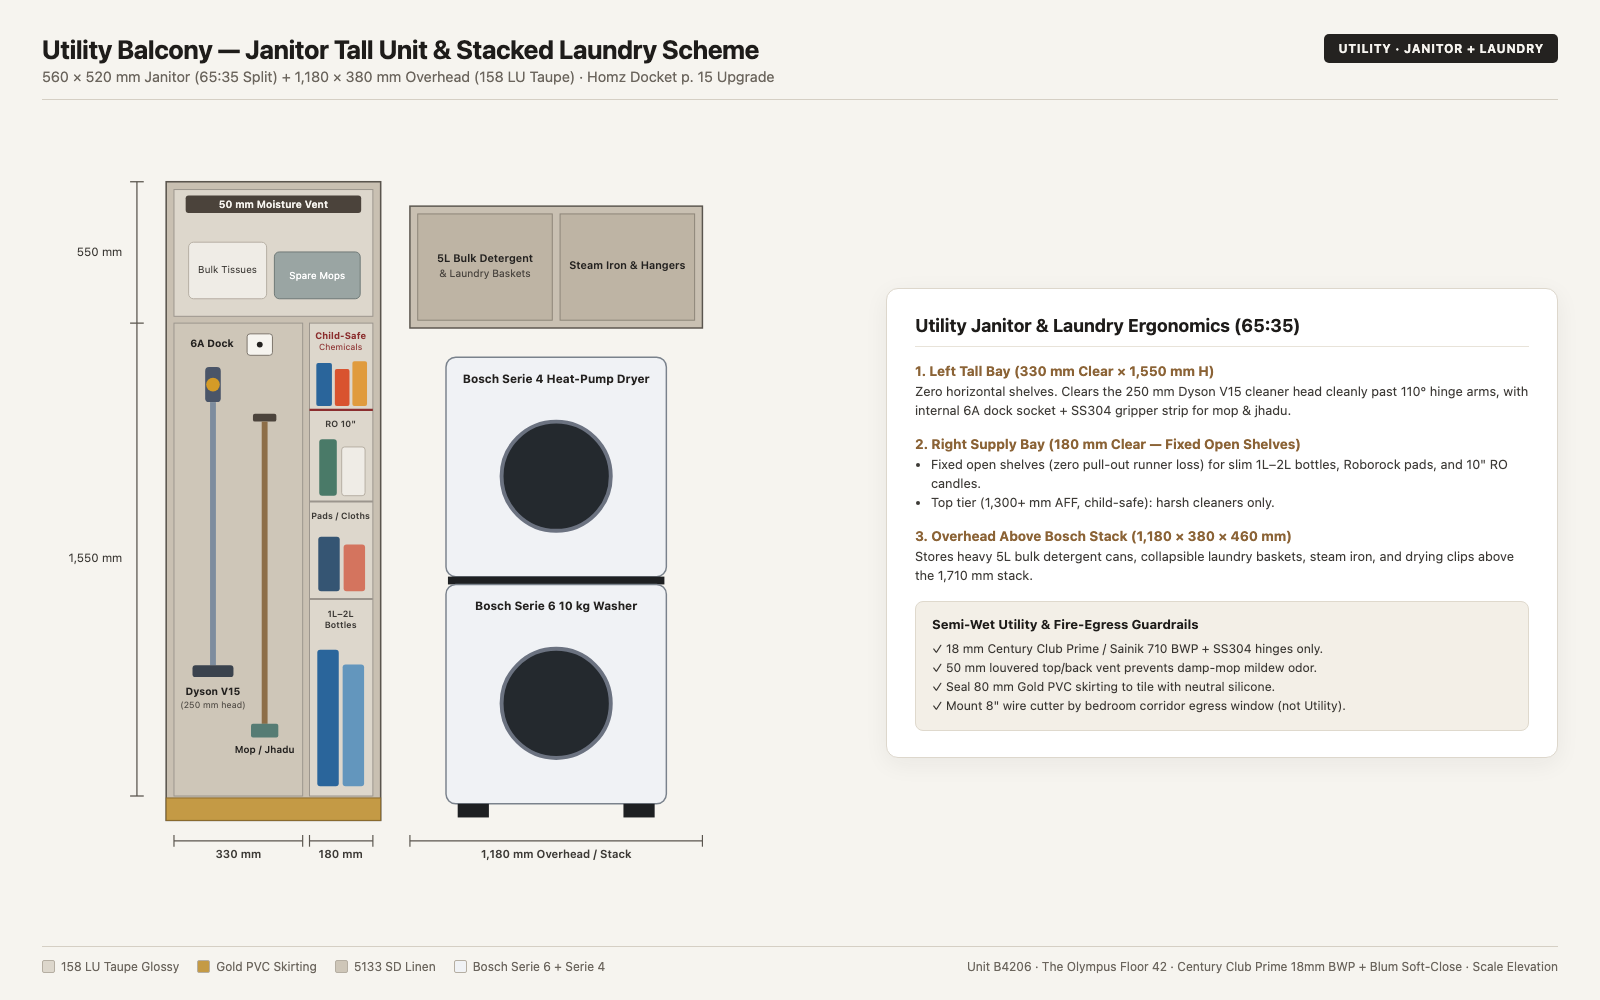
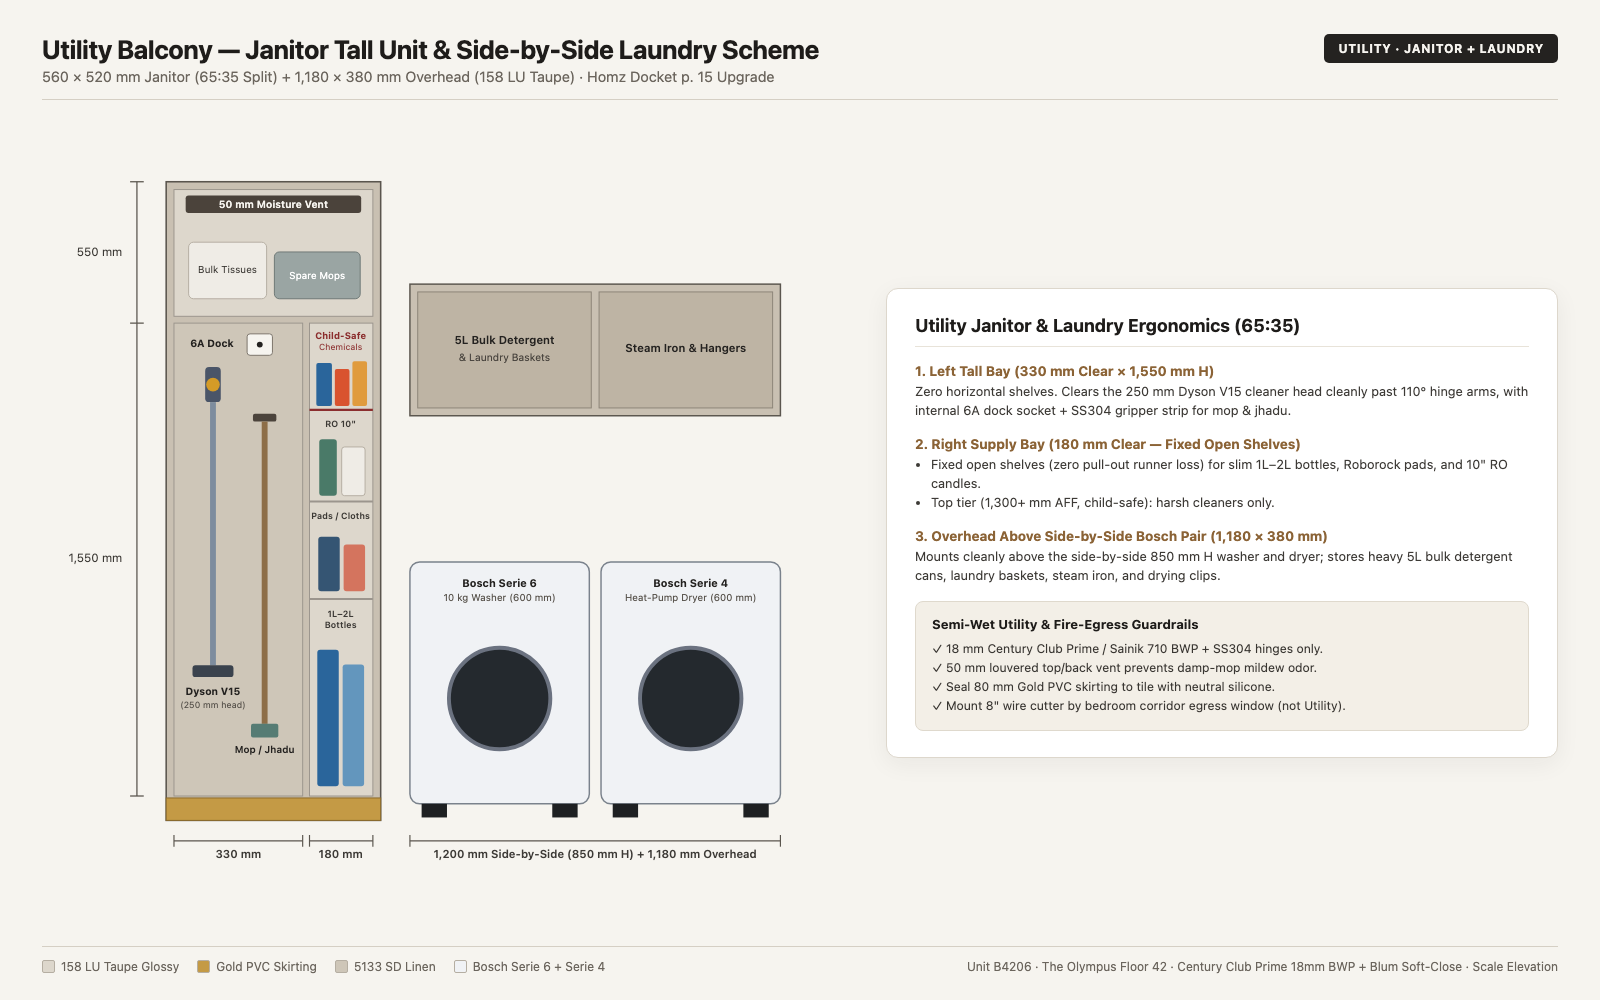
sync: update Project U notes (2026-11-22 00:23:58)

diff --git a/quartz/static/visualizer/b4206-model.html b/quartz/static/visualizer/b4206-model.html
@@ -1895,31 +1895,30 @@ addBox(decorGroup, 0.06, 0.065, 0.24, 14.35, 2.24, 8.64, MAT.steel, {
   meta: 'Tier 2 Recommended · ₹7,500–₹9,500 (Tier 1: Häfele DCL 110 ₹4.5k)'
 });
 
-// Utility + Service Balcony (Docket p. 15 + Locked Stacked Bosch Laundry)
+// Utility + Service Balcony (Docket p. 15 + Side-by-Side Bosch Laundry)
 addBox(furnGroup, 0.56, 1.64, 0.52, 15.05, 0.90, 9.65, MAT.taupeGloss, {
-  tag: 'UTILITY · DOCKET P. 15', title: 'Utility Tall Storage & Overhead (158 LU) + Stacked Bosch Laundry',
-  desc: 'Tall storage cabinet with Gold PVC skirting + wall overhead cabinet beside Kitchen door + stacked Bosch Serie 6 10kg washer & Serie 4 10kg heat-pump dryer via WTZ27400 kit + black granite service sink.',
+  tag: 'UTILITY · DOCKET P. 15', title: 'Utility Tall Storage & Overhead (158 LU) + Side-by-Side Bosch Laundry',
+  desc: 'Tall storage cabinet with Gold PVC skirting + wall overhead cabinet beside Kitchen door + side-by-side Bosch Serie 6 10kg washer & Serie 4 10kg heat-pump dryer + black granite service sink.',
   meta: 'Utility Width: 1500 mm · White uPVC Enclosure'
 });
 addBox(furnGroup, 0.56, 0.08, 0.52, 15.05, 0.04, 9.65, MAT.goldProfile); // Utility Tall Cabinet Gold PVC skirting
 addBox(furnGroup, 0.02, 0.26, 0.02, 14.76, 1.02, 9.84, MAT.goldProfile); // Utility vertical gold pull
-addBox(furnGroup, 0.38, 0.46, 1.18, 15.14, 2.08, 10.75, MAT.taupeGloss); // Utility 2-door wall overhead cabinet (Docket p. 15, clears 1.71m stack)
-// Utility Stacked Bosch Serie 6 Washer (WGA254ZSIN, 600×850×600) + WTZ27400 Kit + Serie 4 Heat-Pump Dryer (WQG2520XIN, 600×850×600)
+addBox(furnGroup, 0.38, 0.46, 1.18, 15.14, 1.65, 10.53, MAT.taupeGloss); // Utility 2-door wall overhead cabinet above side-by-side laundry
+// Utility Side-by-Side Bosch Serie 6 Washer (WGA254ZSIN, 600×850×600) + Serie 4 Heat-Pump Dryer (WQG2520XIN, 600×850×600)
 const laundryMeta = {
-  tag: 'UTILITY · STACKED BOSCH LAUNDRY (EXACT 600×1710mm)', title: 'Bosch WGA254ZSIN (10kg Washer) + WTZ27400 + WQG2520XIN (10kg Heat-Pump Dryer)',
-  desc: 'Two stacked 600×850×600mm Bosch machines on structural tile with rubber anti-vibration pads, 20-bar SS304 braided inlet hose, inline polyphosphate scale filter on cold inlet, and 2× dedicated 16A radial drops.',
-  meta: 'Decided · ₹44k Washer + ₹64k Dryer + ₹5.5k Stack Kit'
+  tag: 'UTILITY · SIDE-BY-SIDE BOSCH LAUNDRY (1200×850mm)', title: 'Bosch WGA254ZSIN (10kg Washer) + WQG2520XIN (10kg Heat-Pump Dryer) Side-by-Side',
+  desc: 'Two side-by-side 600×850×600mm Bosch machines on structural tile with rubber anti-vibration pads, 20-bar SS304 braided inlet hose, inline polyphosphate scale filter on cold inlet, and 2× dedicated 16A radial drops.',
+  meta: 'Decided · ₹44k Washer + ₹64k Dryer (Side-by-Side)'
 };
-addBox(furnGroup, 0.60, 0.84, 0.60, 15.05, 0.42, 10.40, MAT.offWhite, laundryMeta);
-addBox(furnGroup, 0.61, 0.03, 0.61, 15.05, 0.855, 10.40, MAT.darkMetal, laundryMeta); // WTZ27400 stacking kit seam
-addBox(furnGroup, 0.60, 0.84, 0.60, 15.05, 1.29, 10.40, MAT.offWhite, laundryMeta);
-[0.44, 1.31].forEach(dy => {
+addBox(furnGroup, 0.60, 0.84, 0.60, 15.05, 0.42, 10.22, MAT.offWhite, laundryMeta);
+addBox(furnGroup, 0.60, 0.84, 0.60, 15.05, 0.42, 10.84, MAT.offWhite, laundryMeta);
+[10.22, 10.84].forEach(dz => {
   const drum = new THREE.Mesh(new THREE.CylinderGeometry(0.19, 0.19, 0.04, 20), MAT.darkMetal);
-  drum.rotation.z = Math.PI / 2; drum.position.set(14.74, dy, 10.40); furnGroup.add(drum);
+  drum.rotation.z = Math.PI / 2; drum.position.set(14.74, 0.44, dz); furnGroup.add(drum);
 });
-addBox(furnGroup, 0.55, 0.05, 0.62, 15.05, 0.84, 11.15, MAT.graniteBlack, {
+addBox(furnGroup, 0.55, 0.05, 0.62, 15.05, 0.84, 11.50, MAT.graniteBlack, {
   tag: 'UTILITY · SERVICE SINK & PLUMBING', title: 'Utility Black Granite Service Counter & Deep Scrub Sink',
-  desc: 'Heavy-duty utility scrub sink beside stacked Bosch laundry; P-SHAFT-74 metered feed tested for Zoloto Art. 1040B forged brass PRV if line pressure >4.5 bar.',
+  desc: 'Heavy-duty utility scrub sink beside side-by-side Bosch laundry; P-SHAFT-74 metered feed tested for Zoloto Art. 1040B forged brass PRV if line pressure >4.5 bar.',
   meta: '3–5mm underside capillary drip groove · DZR brass stopcocks'
 });
 addBox(furnGroup, 0.50, 1.45, 0.92, 15.25, 0.72, 6.92, MAT.steel, {

diff --git a/content/kitchen-laundry.md b/content/kitchen-laundry.md
@@ -32,8 +32,8 @@ Top reasons to reject or alter this specification: (1) omitting $\ge 5\text{ mm}
 | **Chimney Extraction (90cm T-Box)** | **[Recommended]** [Faber Coral HC SC FL BK BLDC 90](https://www.amazon.in/dp/B0F4CZ751F) (1,500 m³/h gross suction, inverter BLDC motor, 400mm flat T-box, heat auto-clean, 8.1 D, 8.8 VFM, 8.5 overall, ₹19,490–₹20,500) / [Faber Stilux 3D Plus Max 90](https://faberindia.com/) (1,350 m³/h, SS baffles, 8.3 D, ₹22,500) | [Bosch DWB97LM50I Box Hood 90cm](https://www.bosch-home.in/product/DWB97LM50I) (IEC 61591 730 m³/h boost [~1,450 m³/h gross eq.], EcoSilence BLDC, multilayer SS cassette, 9.3 D, 3.1 VFM at $3.3\times$, 7.9 overall, ₹65,000–₹66,000) | Floor 42 drafts and 670mm domino hobs demand $\ge 1,400\text{ m}^3/\text{h}$ gross capture. Disqualify curved glass (`Faber Primus Plus`) and `Siemens LC97BIP50I` (~₹78k, $3.9\times$, fails $\text{VFM}_2 \ge 3.0$). Run thermal auto-clean every 14 days; route 150mm rigid PVC pipe ($\le 2$ bends) to shaft. |
 | **Drinking Water Purifier (decided)** | **[Recommended]** [LG PuriCare WW184ETB](https://www.amazon.in/dp/B0FC2HKT2C) (8L sealed SS304 tank, RO+UV+UF, EverFresh 6-hr in-tank UV-C LED, manual 3s reset, 8.6 D, 9.0 VFM, 8.8 overall, ₹28,990 LG/Reliance quote / ₹34,000 Amazon) | [3M High-Flow Commercial RO System with SS304 Reservoir](https://www.3mindia.in/) (9.0 D, 4.2 VFM at $2.93\times$, 7.7 overall, ~₹85,000) | Sealed SS304 tank with 6-hr UV-C LED prevents biofilm (`r/WaterTreatment`). Disqualify butyl bladder tanks (`Kent Sterling+`) and TDS bypass valves. Connects to builder splashback bibcock + 6A socket behind external 10" pre-filter and 2.8 bar PRV. |
 | **Primary Refrigerator (decided)** | **[Recommended]** [Bosch Serie 6 XXL 641L Top Freezer (KDN86AID0I)](https://www.bosch-home.in/product/KDN86AID0I) (493L fresh + 148L freezer [77:23], VarioInverter, 860mm W fits 980mm niche, 8.8 D, 9.0 VFM, 8.8 overall, ₹94,000–₹1.08L) / [Hitachi Big French (R-WB640VND0)](https://www.hitachiaircon.com/in/ranges/refrigerators) (569L, 8.5 D, ₹1.18L) | [Mitsubishi Electric 635L Multi-Drawer (MR-WX70C / MR-LA70E)](https://www.mitsubishielectric.in/) (Neuro Inverter, isolated drawers, non-plumbed ice maker, 9.2 D, 6.4 VFM at $2.04\times$, 8.6 overall, ~₹1.95L–₹2.45L) / [Liebherr BioFresh (SBSes 8486)](https://home.liebherr.com/) (9.1 D, ~₹2.60L) | Disqualify Samsung Bespoke (cabinet refrigerant leaks) and Haier (<8.0 PCB). 2-door `KDN86AID0I` eliminates flipper mullions and ice leaks. Uncrate in B3 (`720mm` doors-off clears `800mm` lift). Niche: `980×750×1,980mm`, 16A. |
-| **Washer (Front-load) (decided)** | **[Recommended]** [Bosch WGA254ZSIN Serie 6 10kg 1400 RPM](https://www.bosch-home.in/product/WGA254ZSIN) (EcoSilence BLDC, AntiStain, 8.4 D, 9.0 VFM, 8.7 overall, ₹44,000 Elitehaus quote) + [WTZ27400 Stacking Kit](https://www.bosch-home.in/product/WTZ27400) (~₹5,500) / [Bosch WGA252ZSIN 10kg 1200 RPM](https://www.amazon.in/dp/B0DFCLM4QY) (8.3 D, ₹42,899–₹45,999) | [Bosch WGB256A0IN Serie 8 10kg 1600 RPM i-DOS](https://www.bosch-home.in/) (Compatible with `WTZ27400` stack, 8.9 D, 7.0 VFM at $1.80\times$, 8.5 overall, ₹78,990) / [Miele W1 WWD 320 8kg](https://www.miele.in/) (Cast-iron weights, requires Miele T1 stack, 9.4 D, 3.1 VFM, 8.0 overall, ~₹1,45,000) | Bosch welded tubs prevent bearing-only swaps; run monthly 60°C descaling cycles and fit an inline polyphosphate filter on cold inlet. Place on structural tile with rubber pads on a dedicated 16A radial drop. |
-| **Dryer (Heat Pump) (decided)** | **[Recommended]** [Bosch WQG2520XIN Serie 4 10kg Heat Pump](https://www.amazon.in/dp/B0GQTZ14ML) (EasyClean manual condenser door, 600W R290, AutoDry, stacks via WTZ27400, 8.5 D, 9.0 VFM, 8.7 overall, ₹64,000 Elitehaus quote / ₹67,740 Amazon) / [Siemens WQ45G209IN iQ500 9kg](https://www.siemens-home.bsh-group.in/) (8.4 D, ₹68,990) | [Miele T1 TWD 360 / TWJ 660 EcoDry Heat Pump](https://www.miele.in/) (PerfectDry conductance sensor, FragranceDos, 9.2 D, 5.8 VFM at $2.27\times$, 8.5 overall, ~₹1,45,000) | Serie 4 EasyClean door allows direct vacuuming of condenser coils. Disqualify `Bosch WQB245B0IN Serie 8` (₹92k): sealed 'SelfCleaning' condenser flushes lint into lower sump, baking sludge ('DR' error). Crack utility uPVC sash $\ge 50\text{mm}$ during runs. Dedicated 16A socket. |
+| **Washer (Front-load) (decided)** | **[Recommended]** [Bosch WGA254ZSIN Serie 6 10kg 1400 RPM](https://www.bosch-home.in/product/WGA254ZSIN) (EcoSilence BLDC, AntiStain, 8.4 D, 9.0 VFM, 8.7 overall, ₹44,000 Elitehaus quote; side-by-side, no stacking kit) / [Bosch WGA252ZSIN 10kg 1200 RPM](https://www.amazon.in/dp/B0DFCLM4QY) (8.3 D, ₹42,899–₹45,999) | [Bosch WGB256A0IN Serie 8 10kg 1600 RPM i-DOS](https://www.bosch-home.in/) (8.9 D, 7.0 VFM at $1.80\times$, 8.5 overall, ₹78,990) / [Miele W1 WWD 320 8kg](https://www.miele.in/) (Cast-iron weights, 9.4 D, 3.1 VFM, 8.0 overall, ~₹1,45,000) | Bosch welded tubs prevent bearing-only swaps; run monthly 60°C descaling cycles and fit an inline polyphosphate filter on cold inlet. Place side-by-side on structural tile with rubber pads on a dedicated 16A radial drop. |
+| **Dryer (Heat Pump) (decided)** | **[Recommended]** [Bosch WQG2520XIN Serie 4 10kg Heat Pump](https://www.amazon.in/dp/B0GQTZ14ML) (EasyClean manual condenser door, 600W R290, AutoDry, side-by-side placement, 8.5 D, 9.0 VFM, 8.7 overall, ₹64,000 Elitehaus quote / ₹67,740 Amazon) / [Siemens WQ45G209IN iQ500 9kg](https://www.siemens-home.bsh-group.in/) (8.4 D, ₹68,990) | [Miele T1 TWD 360 / TWJ 660 EcoDry Heat Pump](https://www.miele.in/) (PerfectDry conductance sensor, FragranceDos, 9.2 D, 5.8 VFM at $2.27\times$, 8.5 overall, ~₹1,45,000) | Serie 4 EasyClean door allows direct vacuuming of condenser coils. Disqualify `Bosch WQB245B0IN Serie 8` (₹92k): sealed 'SelfCleaning' condenser flushes lint into lower sump, baking sludge ('DR' error). Crack utility uPVC sash $\ge 50\text{mm}$ during runs. Dedicated 16A socket. |
 | **Microwave (decided)** | **[Recommended & Locked Exception]** [Samsung MS23A301TAK/TL 23L Solo](https://www.samsung.com/in/) (800W, Ceramic Enamel cavity, tactile rotary jog dial, 8.6 D, 9.2 VFM, 8.8 overall, ₹6,940) / *In-Stock Fallback:* [Samsung MS23A3513AK/TL 23L Solo](https://www.amazon.in/dp/B09PV84DMX) (23L Ceramic Enamel, 8.3 D, ₹7,990–₹10,300) | **Tier 2: None justified ($\text{VFM} < 3.0$)** — Lock Tier 1 | **Locked Model Exception:** Fall back to `MS23A3513AK/TL` if `MS23A301TAK/TL` is OOS; avoid painted steel cavities (`LG MS2043DB`) that rust. Built-ins (`Bosch BEL553MS0I` ₹44k at `5.5×`, `Siemens iQ500` ₹72k) fail $\text{VFM}_2 \ge 3.0$ (`1.0 VFM`) and add trim-kit lock-in. 489×275×374 mm on 450mm shelf. |
 | **Built-in Oven (decided)** | **[Recommended]** [Bosch Serie 4 HBF113BR0I / HBF133BR0I 66L Built-In Oven](https://www.bosch-home.in/) (3D HotAir rear element, mechanical rotary dials, 8.6 D, 8.8 VFM, 8.6 overall, ₹54,000 Elitehaus quote / ₹64,000–₹74,990 retail) / [Electrolux UltimateTaste 500 KOIGH00KA2 72L](https://www.electrolux.in/) (8.4 D, ₹54,000–₹61,000) | [Miele H 2851 B / H 2267 B Active 76L](https://www.miele.in/) (PerfectClean liner, rotary EasyControl dials, 9.2 D, 4.8 VFM at $2.6\times$, 8.3 overall, ₹1.50L–₹1.80L) | Mechanical rotary knobs eliminate capacitive touch PCB failures from steam (rejected `Siemens iQ700` TFT touch). `r/Appliances`: Bosch wins on India parts/service availability vs Miele's costly imported spares. Requires unshared 16A radial drop and 550mm cavity. |
 | **Waste Management (front step)** | **[Recommended — Trade-Off Call]** **2× [IKEA STENTRAPPA 18L Soft-Close Pedal Bin](https://www.ikea.com/in/en/cat/waste-bins-bags-16233/)** (36L total wet/dry segregation, powder-coated steel body, soft-close damper, removable inner buckets, 7.7 D, 9.2 VFM, 8.4 overall, **₹4,980** pair) / [IKEA MJÖSA 30L + 12L](https://www.ikea.com/in/en/cat/waste-bins-bags-16233/) (42L pair, 7.8 D, ₹5,480–₹5,630) | [EKO Ecocasa II 40L](https://obsessions.co.in/) (Dual 20L+20L brushed SS, internal damper, 8.3 D, 6.0 VFM at $2.28\times$, 8.1 overall, ₹10,073–₹12,654) | Reject under-sink bins (trap odors/pests) and motion-sensor lids (steam corrodes electronics in 12–18 mo). Excluded `Brabantia Bo` (₹25,979–₹34,639 at $5.2\times$ fails $\text{VFM}_2 \ge 3.0$). **Trade-Off Call (`7.7 D` vs `8.3 D`):** IKEA `STENTRAPPA` uses plastic pedal linkages (avoid stomping), but halves `EKO Ecocasa II`'s price (`8.4` vs `8.1` overall). |
@@ -51,5 +51,5 @@ Top reasons to reject or alter this specification: (1) omitting $\ge 5\text{ mm}
 
 ## 3. Site Execution Checklist & Piped Gas (BGL) Record
 
-* [ ] **Execution Gates:** Uncrate `KDN86AID0I` in B3 (`720 mm` doors-off depth clears 800 mm lift); verify `WTZ27400` stack kit, unshared 16A oven radial line, 150 mm rigid PVC chimney duct ($\le 2$ bends), rubber laundry pads on tile, and 1–2 reserve B3 tile boxes.
+* [ ] **Execution Gates:** Uncrate `KDN86AID0I` in B3 (`720 mm` doors-off depth clears 800 mm lift); verify side-by-side washer/dryer clearances, unshared 16A oven radial line, 150 mm rigid PVC chimney duct ($\le 2$ bends), rubber laundry pads on tile, and 1–2 reserve B3 tile boxes.
 * **BGL PNG Meter Record:** App `PNG-2026-03527151` (`mypng.gov.in`, 2026-10-25, `wecare@bglgas.com`) · Meter: Pietro Fiorentini `RS1.2IND` (`G 1.6`, Type `I-2142-MI002-TG038`, S/N `20250602206`, Mfg `06/25`, Baseline `000000.013 m³`, $L \to R$, $P_{\max}=0.5\text{ bar}$, $Q_{\max}=2.5\text{ m}^3/\text{h}$, EN 1359:2017 Class 1.5, `IND/09/24/538`). Coordinate BGL inlet lowering (~700 mm FFL) and genuine 18–21 mbar PNG brass injector jets.

diff --git a/content/finalized-purchases.md b/content/finalized-purchases.md
@@ -28,7 +28,7 @@ Top reasons to reject or alter any of these selections:
 | **Study & Home Office Printer** | **Brother HL-L2440DW**<br>Dual-Band Wi-Fi (2.4/5 GHz), AirPrint, Auto-Duplex Monochrome Laser, 30 ppm, 3,000-page inbox toner | ₹14,990 | [Amazon.in](https://www.amazon.in/dp/B0D86RH9K2) | Connects wirelessly over 5 GHz Wi-Fi / AirPrint (model has Wi-Fi + USB 2.0 only, zero RJ45 port). Plug directly into a dedicated 6A wall socket in Study BR-01; **never plug into a UPS battery backup** (920W halogen fuser spike trips UPS overloads). |
 | **Hob (Hybrid)** | **Häfele Domino Pair**<br>Altius FS 230 30cm Gas (Sabaf brass burners) + Bella / Nero 30 30cm Induction (Schott Ceran)<br>*(Locked Owner Exception / Sticky; 63.4 composite efficiency, saves ₹42,000 over Bosch Domino)* | ₹53,000 | Häfele Brand Store / Authorized Dealer | Manageable quirk: Häfele FFD thermocouple requires a 5-second ignition hold until probe heats, otherwise flame shuts off. Cutout requires 2× (270 × 490 mm) cutouts separated by a 50–70mm continuous granite bridge with ≥5mm radiused corners, dedicated 16A radial drop for induction, 6A for gas, and genuine 18–21 mbar PNG brass jets. |
 | **Washer (Front-load)** | **Bosch WGA254ZSIN Serie 6**<br>10kg, EcoSilence Drive, AntiStain, 1,400 RPM | ₹44,000 | Elitehaus (Quote #20102026) | 1,400 RPM extracts ~9% more moisture than 1,200 RPM, cutting heat-pump dryer cycles by ~25 min. Anchor directly to structural tile on rubber pads; dial down to 1,000 RPM for delicate shirts. |
-| **Dryer (Heat Pump)** | **Bosch WQG2520XIN Serie 4**<br>10kg Heat Pump, AutoDry sensors, 600W | ₹64,000 | Elitehaus (Quote #20102026) | Micro-lint bypasses primary filter if secondary foam seal is unwashed. Ambient room temps $>35^\circ\text{C}$ extend cycles. Stack using WTZ27400 kit. |
+| **Dryer (Heat Pump)** | **Bosch WQG2520XIN Serie 4**<br>10kg Heat Pump, AutoDry sensors, 600W | ₹64,000 | Elitehaus (Quote #20102026) | Micro-lint bypasses primary filter if secondary foam seal is unwashed. Ambient room temps $>35^\circ\text{C}$ extend cycles. Place side-by-side with washer. |
 | **Microwave** | **Samsung MS23A301TAK/TL** *(Locked Model Exception / Sticky)*<br>23L Solo Microwave, 800W, scratch-proof Ceramic Enamel cavity, physical tactile rotary jog dial, deodorization cycle | ₹6,940 | [Amazon.in](https://www.amazon.in/s?k=Samsung+MS23A301TAK) | **Locked Model Exception (Sticky):** Upgraded from legacy MS23F301TAK/TL (EOL) to current-production MS23A301TAK/TL. Bosch 66L oven handles all baking/roasting; Samsung 23L provides a rust-proof 10-yr Ceramic Enamel cavity and tactile rotary jog dial (immune to steam/membrane keypad failure). 374mm depth fits 450mm shelf with rear breathing room and escapes the built-in replacement trap. |
 | **Built-in Oven** | **Bosch Serie 4 HBF113BR0I**<br>66L, true 3D HotAir convection, mechanical rotary dials, 3.3 kW | ₹54,000 | Elitehaus / Retail Benchmark | Bosch HBF113BR0I features a true 3D HotAir circular rear heating element (superseding conventional Serie 2 HBF011BA1I). Demands direct unshared 16A radial drop from DB and 550mm deep ventilated niche. |
 | **Primary Refrigerator** | **Bosch Serie 6 XXL 641L Top Freezer (`KDN86AID0I`)**<br>493L native fresh food volume (77:23 ratio), 148L top freezer, VarioInverter, Dual Cooling, anti-fingerprint brushed steel | ~₹1,08,000 (Benchmark) | Retail Benchmark / Dealer Quotes Pending (Elitehaus / Bosch Direct) | 860 mm body width fits 980 mm niche with 60 mm lateral airflow clearance. Perfect Fit flush hinges open 90° clear of 600 mm adjacent counters. Crate is 1,920×910×890 mm (exceeds 800 mm lift door width; un-crate in Basement 3; bare chassis 1,860×860×810 mm passes 800 mm lift door depth-first with doors unhinged to 720 mm depth). Provide dedicated 16A surge-protected socket at 1,200 mm AFF. |
@@ -50,7 +50,7 @@ Top reasons to reject or alter any of these selections:
 - **Refrigerator Niche:** Minimum cabinet cavity: 980 mm (W) × 750 mm (D) × 1,980 mm (H) for Bosch `KDN86AID0I` (`1,860 × 860 × 810 mm`). Provides 60 mm lateral airflow clearance per side (`(980 - 860)/2`), 120 mm top clearance, and 50 mm rear air gap with Perfect Fit 90° flush door swing clear of 600 mm base cabinetry (bare chassis without doors is 720 mm deep for service lift transit).
 - **Built-in Oven Niche:** Standard tall-unit niche: 575–597 mm (H) × 560 mm (W) × 550 mm (D) with open rear ventilation channel.
 - **Microwave Shelf:** Minimum clear shelf dimensions: 600 mm (W) × 450 mm (D) × 400 mm (H) with open front and rear ventilation gap.
-- **Laundry Stacking:** Secure dryer over washer using the official Bosch WTZ27400 stacking bracket. Never stack without mechanical coupling.
+- **Laundry Placement (Side-by-Side):** Place Bosch washer and heat-pump dryer side-by-side on structural tile with rubber anti-vibration pads (`WTZ27400` stacking kit not required).
 
 ### Plumbing & Water Safety
 - **Washer Inlet:** Minimum 0.3 bar, maximum 10 bar dynamic pressure.

diff --git a/content/wardrobe-internal-storage.md b/content/wardrobe-internal-storage.md
@@ -71,6 +71,6 @@ Strikes Homz Docket `p. 15` horizontal shelves inside the `560 mm` tall unit in 
 
 * **Left Tall Bay (`330 mm` clear × `1,550 mm` H):** Zero horizontal shelves. Gives the `250 mm` **Dyson V15** cleaner head clean clearance past `110°` hinge arms, with an internal `6A` dock socket + SS304 gripper strip for mop, floor wiper, and *jhadu*.
 * **Right Supply Bay (`180 mm` clear × `1,550 mm` H):** Fixed open shelves (zero pull-out runner width loss) for slim `1L–2L` bottles, Roborock pads, and `10"` RO candles; top tier (`1,300+ mm` AFF, child-safe) holds harsh cleaners. Store bulk `5L` detergent cans in the `1,180 mm` laundry overhead or under-sink.
-* **Moisture & Fire-Egress Guardrails:** Include a `50 mm` top/back louvered vent for damp mops and seal the `80 mm` Gold PVC skirting to tile with neutral silicone. Mount the **8" SS316 wire cutter** by the bedroom corridor egress window (not inside the Utility cabinet). Overhead `1,180 × 380 × 460 mm` unit clears the `1,710 mm` Bosch washer/dryer stack.
+* **Moisture & Fire-Egress Guardrails:** Include a `50 mm` top/back louvered vent for damp mops and seal the `80 mm` Gold PVC skirting to tile with neutral silicone. Mount the **8" SS316 wire cutter** by the bedroom corridor egress window (not inside the Utility cabinet). Overhead `1,180 × 380 × 460 mm` unit mounts cleanly above the side-by-side Bosch washer and heat-pump dryer (`850 mm` H each).
 
-![Utility Janitor Tall Unit & Stacked Laundry Scheme](assets/decor/utility-janitor-internal.png)
+![Utility Janitor Tall Unit & Side-by-Side Laundry Scheme](assets/decor/utility-janitor-internal.png)

diff --git a/content/index.md b/content/index.md
@@ -22,7 +22,7 @@ Pre-ceiling and pre-flooring infrastructure. Failure to sequence these before ar
 * **[[cabinetry-woodwork|Cabinetry & Woodwork]]** — IS 710 BWP plywood, calibrated cores, wardrobe hardware schedule, and ceiling plasterboard.
 * **[[wardrobe-internal-storage|Wardrobe & Utility Storage]]** — Bay-by-bay wardrobe internals (MBR, Kabir, Study/Guest, Home Gurudwara) and Utility janitor 65:35 layout.
 * **[[plans-drawings|Plans & Drawings]]** — Unit B4206 architectural floor plan, Daikin VRV 10 HP HVAC, plumbing shafts, and electrical DB.
-* **[[kitchen-laundry|Kitchen & Laundry]]** — Modular cabinetry, light Indian granite, undermount sinks, hybrid domino hob, 32A lines, and stacked laundry.
+* **[[kitchen-laundry|Kitchen & Laundry]]** — Modular cabinetry, light Indian granite, undermount sinks, hybrid domino hob, 32A lines, and side-by-side laundry.
 * **[[finalized-purchases|Finalized Purchases]]** — Committed major appliances, AV envelope (₹4.59L), dedicated 16A radials, and joinery clearances.
 * **[[bathrooms|Bathrooms]]** — 10L/15L horizontal geysers, SS304 flanged curtain rods, floor threshold water bars, silent exhaust CFM, and insect mesh.
 * **[[lighting-ambience|Lighting & Ambience]]** — Architectural CRI 95+ COB spots, 3000K CCT zoning, remote driver enclosures, and 24V dot-free mirror halos.

diff --git a/content/plans-drawings.md b/content/plans-drawings.md
@@ -94,5 +94,5 @@ System driven by a single **10 HP Daikin VRV Outdoor Unit (ODU)** on the Service
 * **Distribution Board (DB):** Surface-recessed in entrance lobby corridor. Fed with 3-phase supply. Feeds 25 mm Ø lighting conduits and 25 mm Ø power conduits.
 * **Communication Junction Box (CJB):** Recessed next to DB. Terminates Cat6 internet drops, TV coax, and building intercom lines.
 * **Geyser Circuits:** Dedicated 20A isolator switches wired to 20A 3-pin sockets in Master Toilet, BR-01 Toilet, BR-02 Toilet, and BR-03 Toilet.
-* **Power Outlets (15A/16A):** Kitchen counter loop (hob, chimney, oven, microwave), Utility laundry stack (washer/dryer), and refrigerator niche.
+* **Power Outlets (15A/16A):** Kitchen counter loop (hob, chimney, oven, microwave), Utility side-by-side laundry (washer/dryer), and refrigerator niche.
 * **Lighting & Fans:** 1200 mm sweep fan hooks centered in all bedrooms and living zones; 150 mm exhaust fan cutouts in all 4 washrooms.
